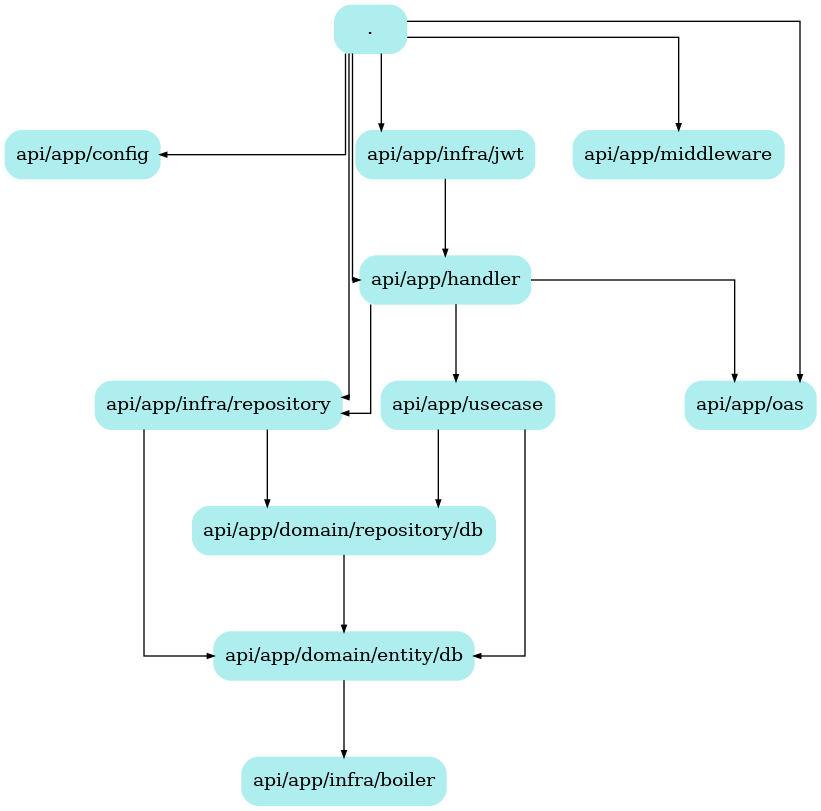
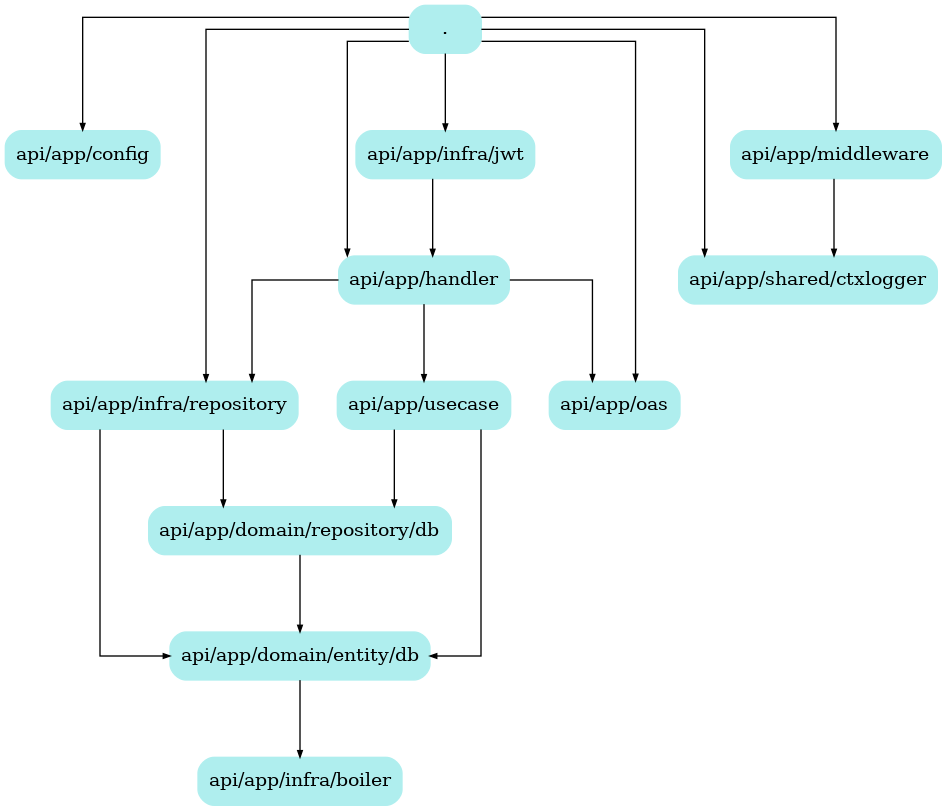
context logger Fixes #49

diff --git a/api/app/middleware/logger.go b/api/app/middleware/logger.go
@@ -1,38 +1,38 @@
 package middleware
 
 import (
+	"api/app/shared/ctxlogger"
 	"fmt"
 	"log/slog"
-	"os"
 
+	"github.com/google/uuid"
 	"github.com/ogen-go/ogen/middleware"
 )
 
 func NewSlogLogger() middleware.Middleware {
-	logger := slog.New(slog.NewJSONHandler(os.Stdout, nil))
 	return func(
 		req middleware.Request,
 		next func(req middleware.Request) (middleware.Response, error),
 	) (middleware.Response, error) {
-		logger.Info(
-			"Handling request",
-			slog.String("operation", req.OperationName),
-			slog.String("URL", req.Raw.URL.String()),
-			slog.String("operationId", req.OperationID),
-			slog.String("body", fmt.Sprintf("%#v", req.Body)),
-			slog.String("raw request", fmt.Sprintf("%+v", req.Raw)),
-		)
+		traceID := uuid.New()
+		req.Context = ctxlogger.WithValue(req.Context, "traceID", traceID.String())
+		req.Context = ctxlogger.WithValue(req.Context, "operation", req.OperationName)
+
+		slog.InfoContext(req.Context, "Received request", "request", struct {
+			URL  string
+			Body string
+		}{
+			URL:  req.Raw.URL.String(),
+			Body: fmt.Sprintf("%#v", req.Body),
+		})
+
 		resp, err := next(req)
 		if err != nil {
-			logger.Error("Fail", "error", err)
+			slog.ErrorContext(req.Context, "Error", "error", err)
 		} else {
-			logger.Info(
-				"Handled request",
-				"operation", req.OperationName,
-				"operationId", req.OperationID,
-				"raw response", fmt.Sprintf("%#v", resp.Type),
-			)
+			slog.InfoContext(req.Context, "Returned response", "response", resp)
 		}
+
 		return resp, err
 	}
 }

diff --git a/api/app/usecase/create_user.go b/api/app/usecase/create_user.go
@@ -4,6 +4,7 @@ import (
 	dbEntity "api/app/domain/entity/db"
 	dbRepo "api/app/domain/repository/db"
 	"context"
+	"log/slog"
 )
 
 type CreateUserUsecase interface {
@@ -36,22 +37,34 @@ func (u *createUserUsecase) Run(ctx context.Context, name string, sub string) er
 		user.Name = name
 		err := u.userRepo.Create(ctx, user)
 		if err != nil {
+			slog.ErrorContext(ctx, "Repo: Failed to create user", "error", err)
 			return err
 		}
+		slog.InfoContext(ctx, "Repo: Success to create user", "user", struct {
+			ID   int
+			Name string
+		}{
+			ID:   user.ID,
+			Name: user.Name,
+		})
 
 		subject := &dbEntity.AuthSubject{}
 		subject.Subject = sub
 		subject.UserID = user.ID
 		err = u.subjectRepo.Create(ctx, subject)
 		if err != nil {
+			slog.ErrorContext(ctx, "Repo: Failed to create auth subject", "error", err)
 			return err
 		}
+		slog.InfoContext(ctx, "Repo: Success to create auth subject")
 
 		return nil
 	})
 	if err != nil {
+		slog.ErrorContext(ctx, "Repo: Failed to run transaction", "error", err)
 		return err
 	}
+	slog.InfoContext(ctx, "Repo: Success to run transaction")
 
 	return nil
 }

diff --git a/api/app/shared/ctxlogger/handler.go b/api/app/shared/ctxlogger/handler.go
@@ -1,0 +1,43 @@
+package ctxlogger
+
+import (
+	"context"
+	"log/slog"
+	"sync"
+)
+
+var _ slog.Handler = Handler{}
+
+type Handler struct {
+	handler slog.Handler
+}
+
+func NewHandler(handler slog.Handler) slog.Handler {
+	return Handler{
+		handler: handler,
+	}
+}
+
+func (h Handler) Enabled(ctx context.Context, level slog.Level) bool {
+	return h.handler.Enabled(ctx, level)
+}
+
+func (h Handler) Handle(ctx context.Context, record slog.Record) error {
+	if v, ok := ctx.Value(fields).(*sync.Map); ok {
+		v.Range(func(key, val any) bool {
+			if keyString, ok := key.(string); ok {
+				record.AddAttrs(slog.Any(keyString, val))
+			}
+			return true
+		})
+	}
+	return h.handler.Handle(ctx, record)
+}
+
+func (h Handler) WithAttrs(attrs []slog.Attr) slog.Handler {
+	return Handler{h.handler.WithAttrs(attrs)}
+}
+
+func (h Handler) WithGroup(name string) slog.Handler {
+	return h.handler.WithGroup(name)
+}

diff --git a/api/app/middleware/jwt.go b/api/app/middleware/jwt.go
@@ -3,7 +3,6 @@ package middleware
 import (
 	"fmt"
 	"net/url"
-	"os"
 	"time"
 
 	"github.com/auth0/go-jwt-middleware/v2/jwks"
@@ -15,14 +14,12 @@ import (
 
 // NewJwtMiddleware : JWTを検証するミドルウェアを作成します。contextにsubjectを追加します。検証に失敗した場合は空文字列を追加します。
 func NewJwtMiddleware(auth0Domain string, auth0Audience string, subjectKey string) (middleware.Middleware, error) {
-	logger := slog.New(slog.NewJSONHandler(os.Stdout, nil))
 	issuer := fmt.Sprintf("https://%s/", auth0Domain)
 	audience := []string{auth0Audience}
 
 	jwtValidator, err := NewJwtValidator(issuer, audience)
 	if err != nil {
-		logger.Error("failed to create JWT validator")
-		logger.Error(err.Error())
+		slog.Error("Middleware: Failed to create JWT validator", "error", err)
 		return nil, err
 	}
 

diff --git a/api/main.go b/api/main.go
@@ -7,6 +7,7 @@ import (
 	db "api/app/infra/repository"
 	mw "api/app/middleware"
 	"api/app/oas"
+	"api/app/shared/ctxlogger"
 	"fmt"
 	"log"
 	"log/slog"
@@ -22,6 +23,9 @@ func main() {
 
 	const auth0SubjectKey = "subject"
 
+	// logger
+	slog.SetDefault(slog.New(ctxlogger.NewHandler(slog.NewJSONHandler(os.Stdout, nil))))
+
 	// Middleware
 	loggerMiddleware := mw.NewSlogLogger()
 	jwtMiddleware, err := mw.NewJwtMiddleware(c.AUTH0.Domain, c.AUTH0.Audience, auth0SubjectKey)
@@ -31,7 +35,6 @@ func main() {
 
 	// Handler
 	jwtClient := jwt.NewJwtClient(auth0SubjectKey)
-	logger := slog.New(slog.NewJSONHandler(os.Stdout, nil))
 	db, err := db.New(c.GetDBConnStr())
 	if err != nil {
 		log.Fatal(err)
@@ -39,7 +42,6 @@ func main() {
 
 	service := h.NewHandler(
 		jwtClient,
-		logger,
 		db,
 	)
 

diff --git a/api/app/shared/ctxlogger/context.go b/api/app/shared/ctxlogger/context.go
@@ -1,0 +1,35 @@
+package ctxlogger
+
+import (
+	"context"
+	"sync"
+)
+
+type contextKey string
+
+var (
+	fields contextKey = "slog_fields"
+)
+
+func WithValue(parent context.Context, key string, val any) context.Context {
+	if parent == nil {
+		panic("cannot create context from nil parent")
+	}
+	if v, ok := parent.Value(fields).(*sync.Map); ok {
+		mapCopy := copySyncMap(v)
+		mapCopy.Store(key, val)
+		return context.WithValue(parent, fields, mapCopy)
+	}
+	v := &sync.Map{}
+	v.Store(key, val)
+	return context.WithValue(parent, fields, v)
+}
+
+func copySyncMap(m *sync.Map) *sync.Map {
+	var cp sync.Map
+	m.Range(func(k, v interface{}) bool {
+		cp.Store(k, v)
+		return true
+	})
+	return &cp
+}

diff --git a/api/app/handler/sign_up.go b/api/app/handler/sign_up.go
@@ -5,6 +5,7 @@ import (
 	"api/app/oas"
 	"api/app/usecase"
 	"context"
+	"log/slog"
 )
 
 func (h *handler) SignUpPost(ctx context.Context, req *oas.SignUpPostReq) (oas.SignUpPostRes, error) {
@@ -24,12 +25,13 @@ func (h *handler) SignUpPost(ctx context.Context, req *oas.SignUpPostReq) (oas.S
 
 	err := createUserUsecase.Run(ctx, req.Name.Value, sub)
 	if err != nil {
-		h.logger.Error(err.Error())
+		slog.ErrorContext(ctx, "Usecase: Failed to create user", "error", err)
 		return &oas.R500InternalServerError{
 			Message: "Internal server error",
 		}, nil
 	}
 
+	slog.InfoContext(ctx, "Usecase: Create user success")
 	return &oas.DefaultSuccess{
 		Message: "Sign up success",
 	}, nil

diff --git a/api/app/infra/jwt/jwt.go b/api/app/infra/jwt/jwt.go
@@ -4,7 +4,6 @@ import (
 	"api/app/handler"
 	"context"
 	"log/slog"
-	"os"
 )
 
 type jwtClient struct {
@@ -16,12 +15,11 @@ func NewJwtClient(subjectKey string) handler.JwtClient {
 }
 
 func (j *jwtClient) GetSubject(ctx context.Context) string {
-	logger := slog.New(slog.NewJSONHandler(os.Stdout, nil))
 	v := ctx.Value(j.subjectKey)
 
 	subject, ok := v.(string)
 	if !ok {
-		logger.Info("failed to get subject from context")
+		slog.ErrorContext(ctx, "JwtClient: Failed to get subject", "error", "subject not found")
 		return ""
 	}
 

diff --git a/api/app/handler/handler.go b/api/app/handler/handler.go
@@ -5,7 +5,6 @@ import (
 	"context"
 	"database/sql"
 	"fmt"
-	"log/slog"
 	"time"
 )
 
@@ -17,19 +16,16 @@ type JwtClient interface {
 
 func NewHandler(
 	jc JwtClient,
-	l *slog.Logger,
 	db *sql.DB,
 ) oas.Handler {
 	return &handler{
 		jwtClient: jc,
-		logger:    l,
 		db:        db,
 	}
 }
 
 type handler struct {
 	jwtClient JwtClient
-	logger    *slog.Logger
 	db        *sql.DB
 }
 
